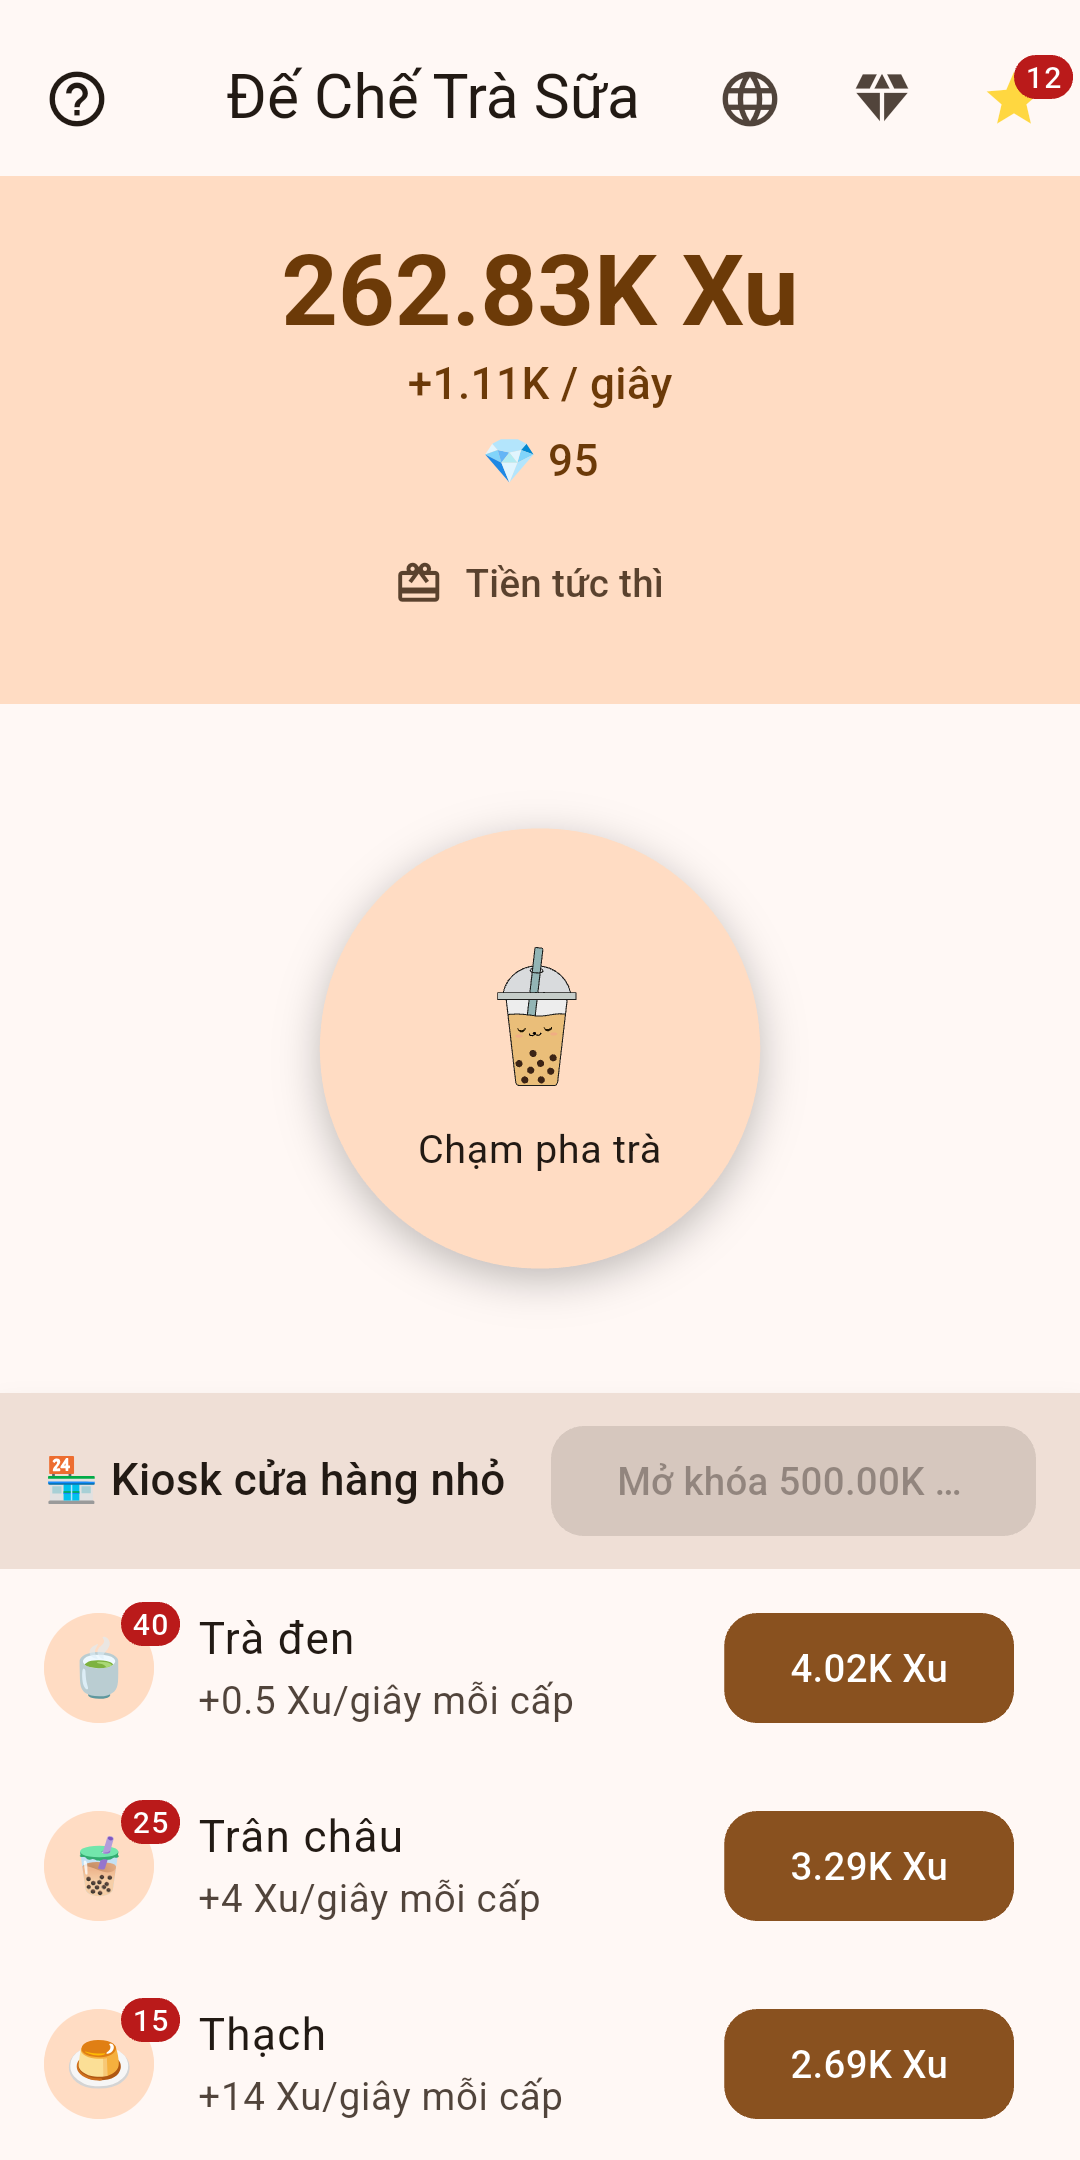
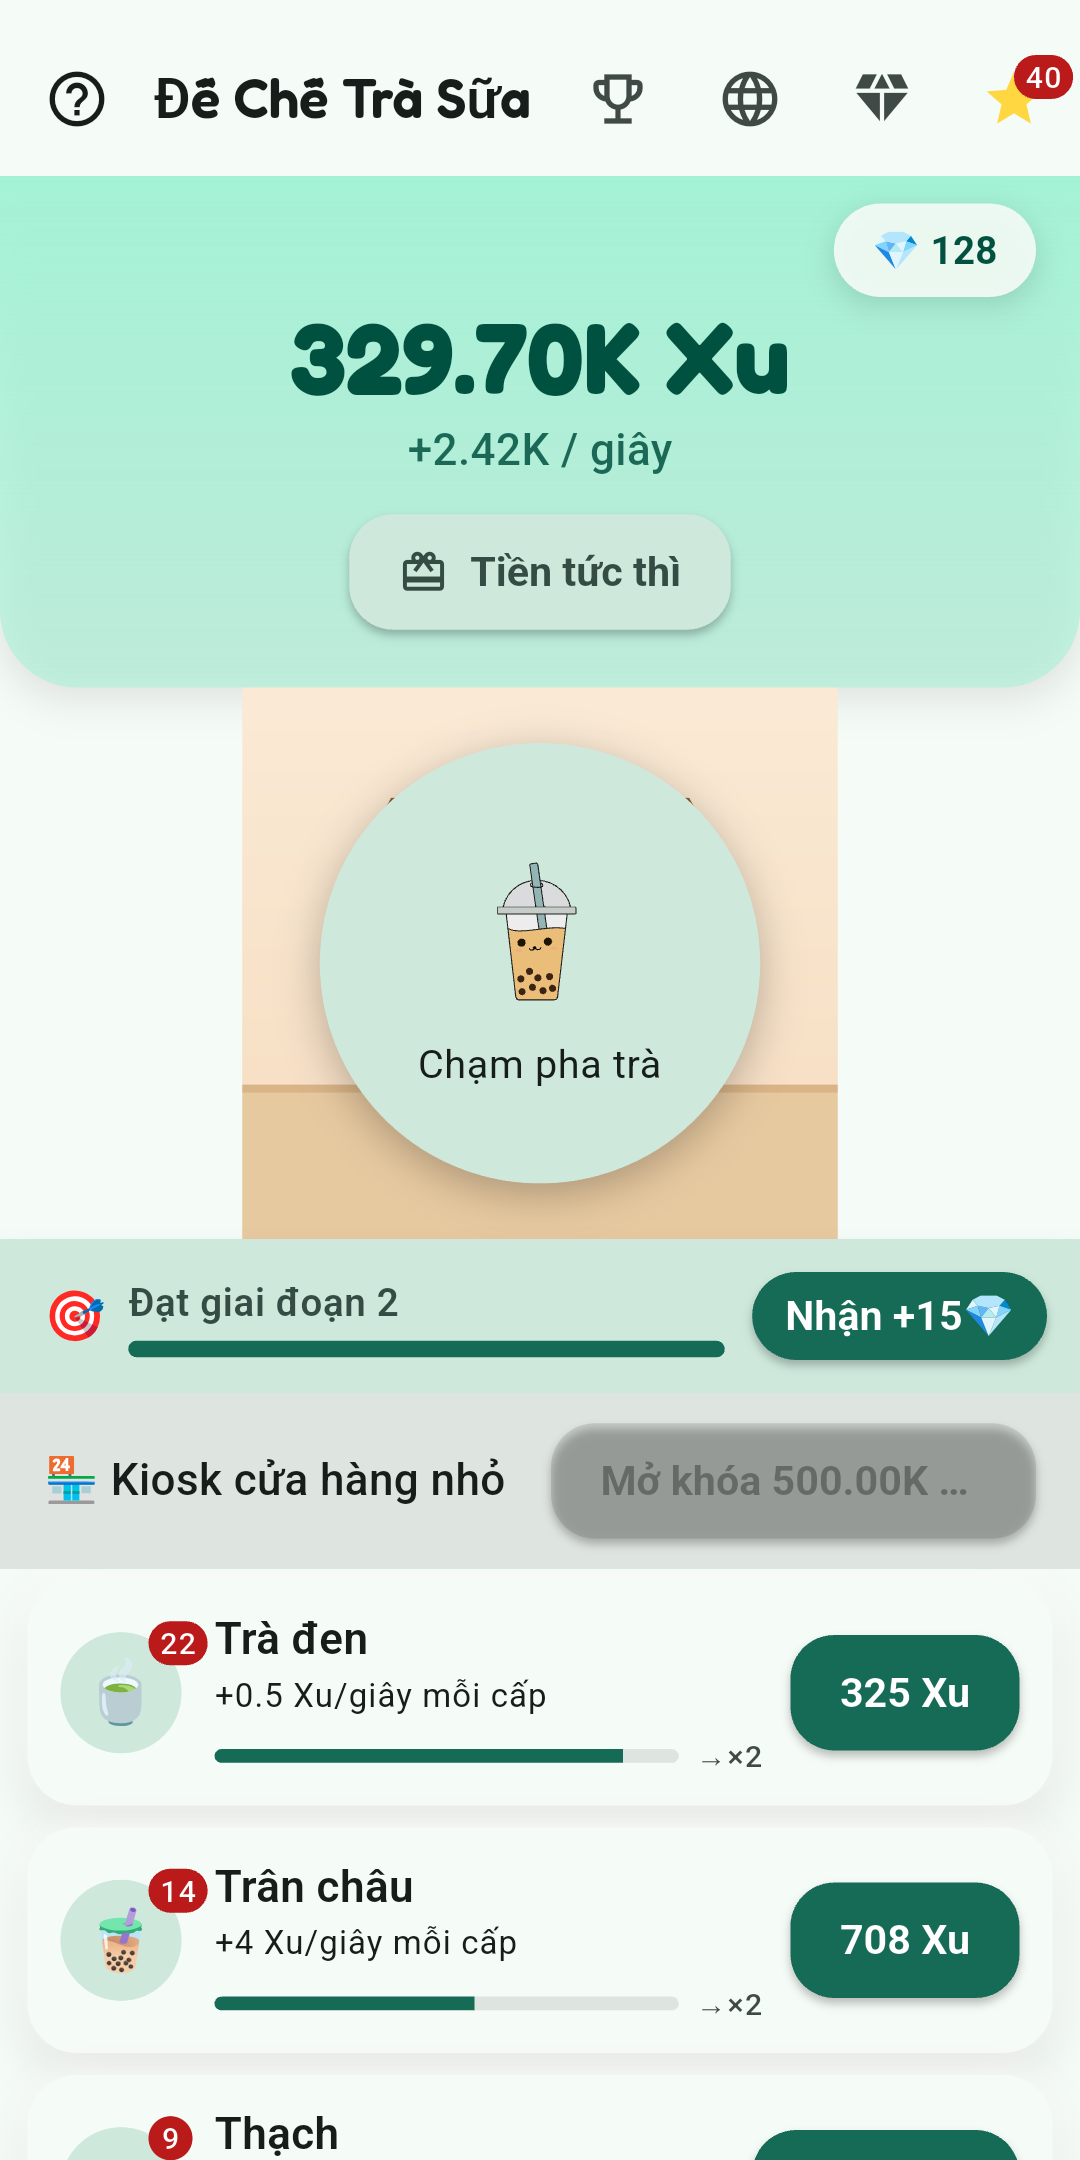
docs: refresh Play screenshots for the new claymorphic UI
Reshoot the store set (now 6, 1080x2160 2:1) from a real device in Vietnamese,
showing the redesigned look: home (light), daily reward, gem shop, star shop,
achievements, home (dark).

diff --git a/RELEASE_CHECKLIST.md b/RELEASE_CHECKLIST.md
@@ -71,9 +71,10 @@ Ký hiệu: 🔴 chặn phát hành · 🟡 nên làm · 🟢 tùy chọn/sau.
   `assets/icon/playstore_icon_512.png` (upload lên Play) + adaptive icon đã sinh.
 - [x] 🔴 **Feature graphic** 1024×500 (Play bắt buộc) — `assets/store/feature_graphic.png`
   (sinh bằng scripts/make_feature.py).
-- [x] 🔴 **Screenshot** — 5 ảnh 1080×2160 (2:1, hợp lệ Play, đã bỏ status bar)
-  ở `assets/store/screenshots/`: home (sáng), cửa hàng 💎, nhượng quyền, cách
-  chơi, home (tối). Chụp từ máy thật, tiếng Việt, state seed đẹp.
+- [x] 🔴 **Screenshot** — 6 ảnh 1080×2160 (2:1, hợp lệ Play, đã bỏ status bar)
+  ở `assets/store/screenshots/`: home sáng, điểm danh, cửa hàng 💎, kho Sao,
+  thành tựu, home tối. Chụp từ máy thật, tiếng Việt, UI claymorphic mới (font
+  Fredoka + màu theo stage). Chụp lại bằng seed+adb khi UI đổi.
 - [ ] 🔴 **Store listing** (tên/mô tả ngắn/mô tả đầy đủ) — dán từ
   STORE_LISTING.md, cho từng ngôn ngữ (vi/en/pt/es/id/th).
 - [ ] 🟡 Nhờ **người bản ngữ soát** bản dịch in-app + listing.
